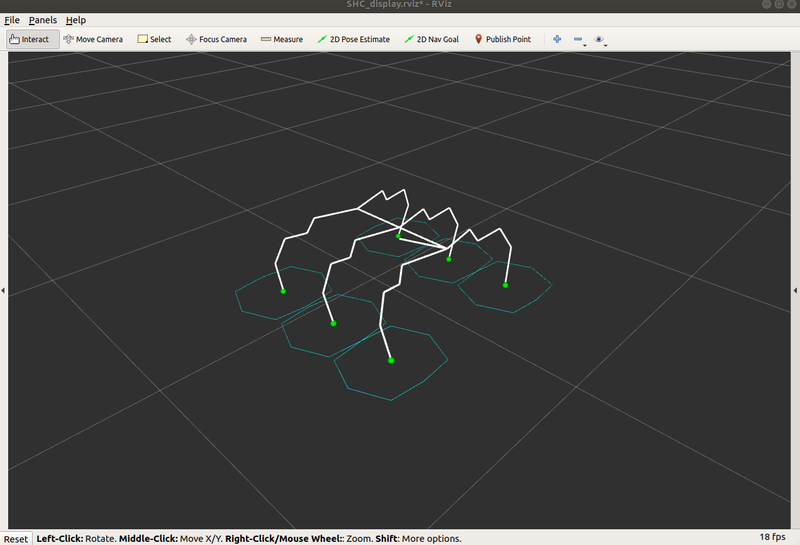
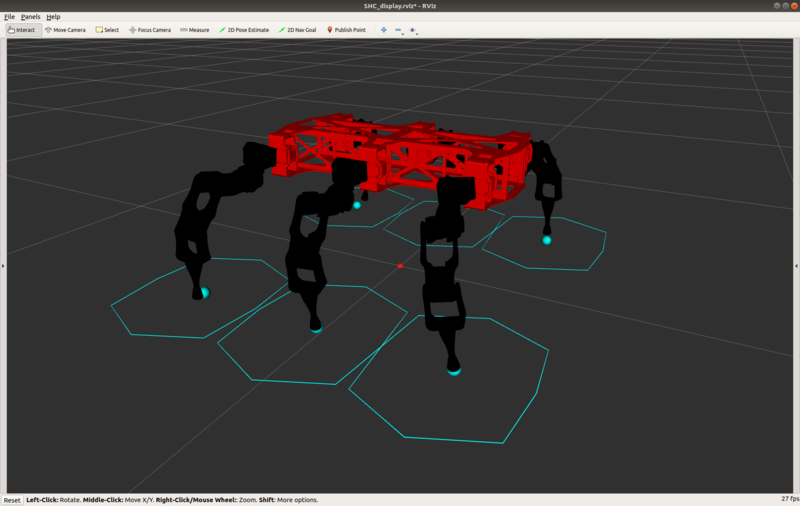
Added missing dependencies - Added missing apt install dependencies - Updated rviz simulation screenshot - Added info about XInput mode to gamepad

diff --git a/shc_pc_gazebo_simulation.md b/shc_pc_gazebo_simulation.md
@@ -36,7 +36,7 @@ catkin build
 source ~/openshc_ws/devel/setup.bash
 ```
 
-4.6 Plug a gamepad controller into your machine such as the [Logitech F710 Wireless Gamepad](https://www.logitechg.com/en-au/products/gamepads/f710-wireless-gamepad.940-000119.html) for control. Other gamepads may be used, but the mapping may differ.
+4.6 Plug a gamepad controller into your machine such as the [Logitech F710 Wireless Gamepad](https://www.logitechg.com/en-au/products/gamepads/f710-wireless-gamepad.940-000119.html) for control. Ensure the controller is in XInput mode. Other gamepads may be used, but the mapping may differ.
 
 ![joystick](media/joystick.jpg "Logitech Joystick")
 

diff --git a/shc_pc_install_other.md b/shc_pc_install_other.md
@@ -9,7 +9,7 @@ The following packages should be installed in addition to ROS for the successful
 2.1 Install ROS joystick, ROS control, ROS controllers and python catkin tools packages by,
 
 ```bash
-sudo apt-get install ros-melodic-joy ros-melodic-ros-control ros-melodic-ros-controllers python-catkin-tools
+sudo apt install ros-melodic-joy ros-melodic-ros-control ros-melodic-ros-controllers python-catkin-tools
 ```
 
 [Next: Creating the Catkin Workspace](shc_pc_create_workspace.md)

diff --git a/shc_pc_install_ros.md b/shc_pc_install_ros.md
@@ -30,9 +30,10 @@ sudo apt update
 sudo apt install ros-melodic-desktop-full
 ```
 
-1.5 Before using ROS, initialize ROS by the following two commands.
+1.5 Before using ROS, install useful build tools and dependencies by the following commands.
 
 ```bash
+sudo apt install python-rosdep python-rosinstall python-rosinstall-generator python-wstool build-essential
 sudo rosdep init
 rosdep update
 ```
